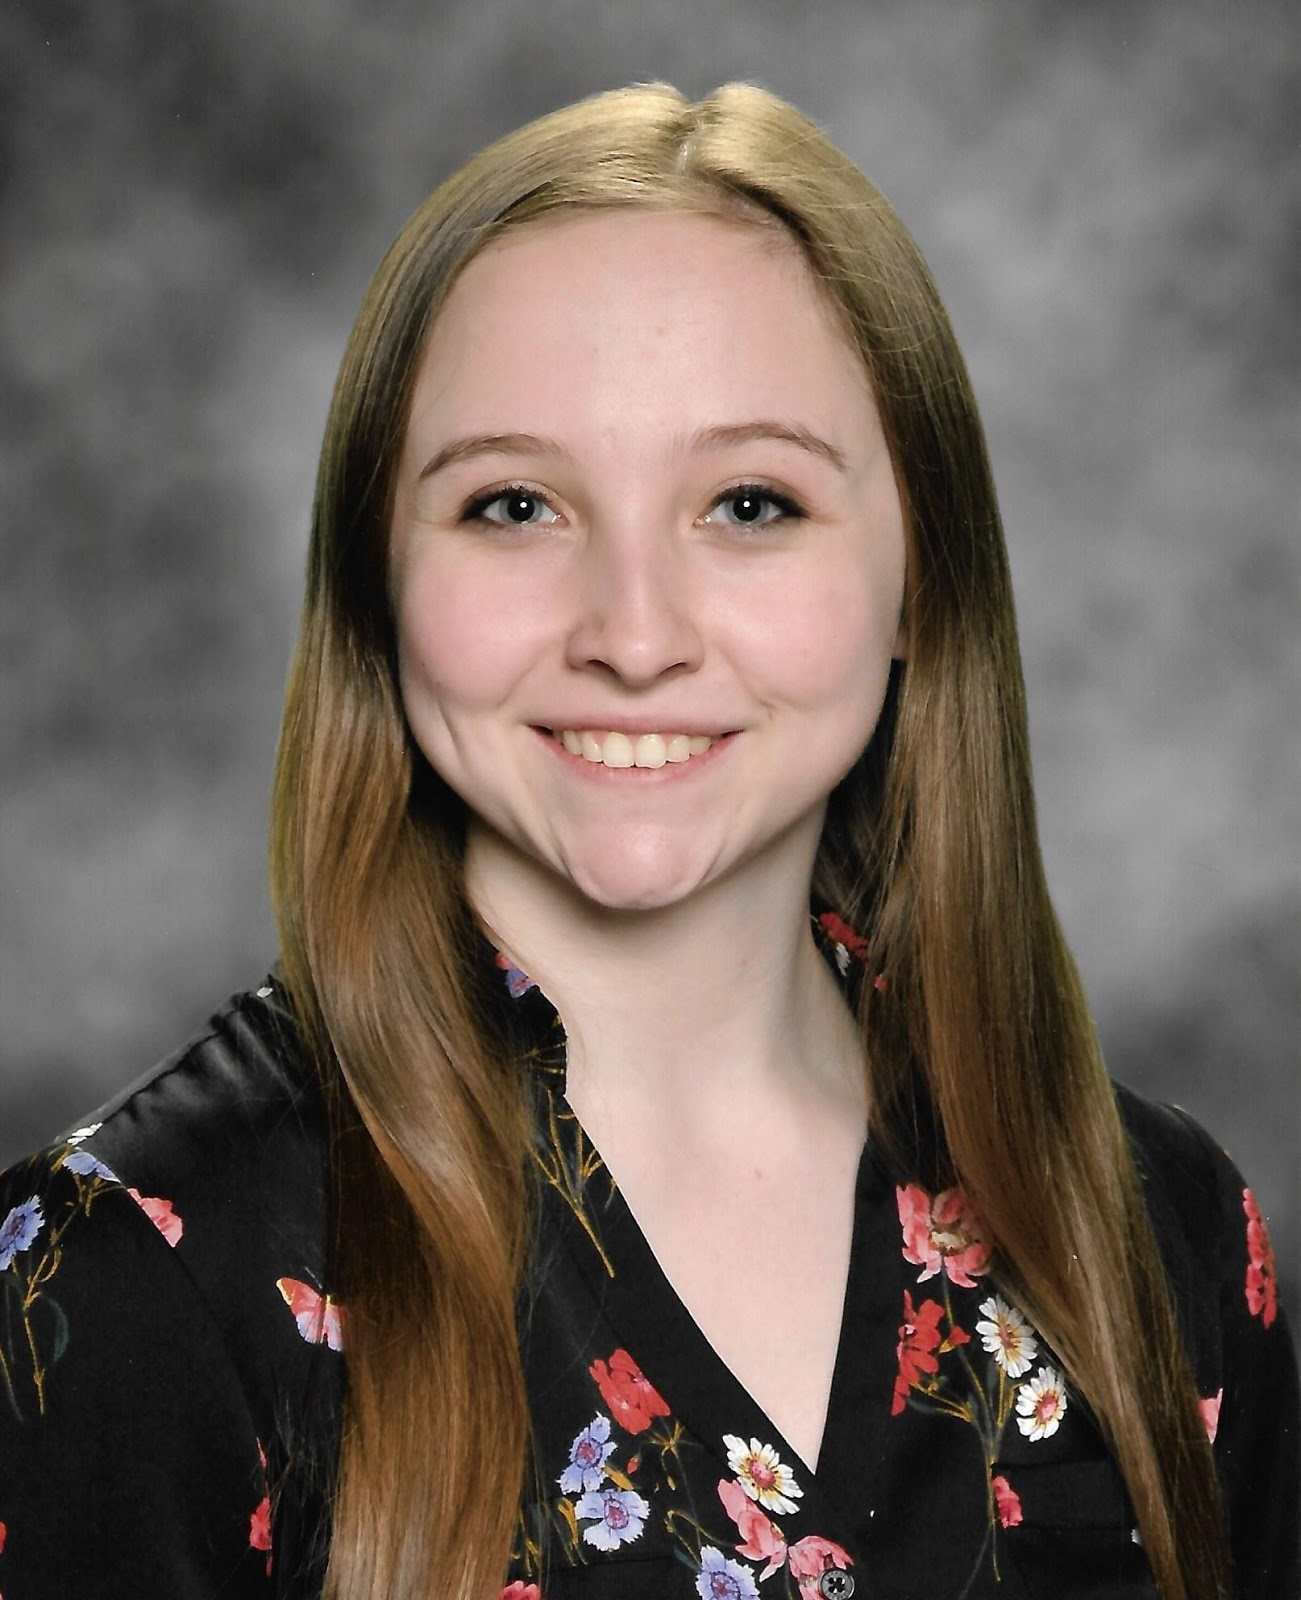
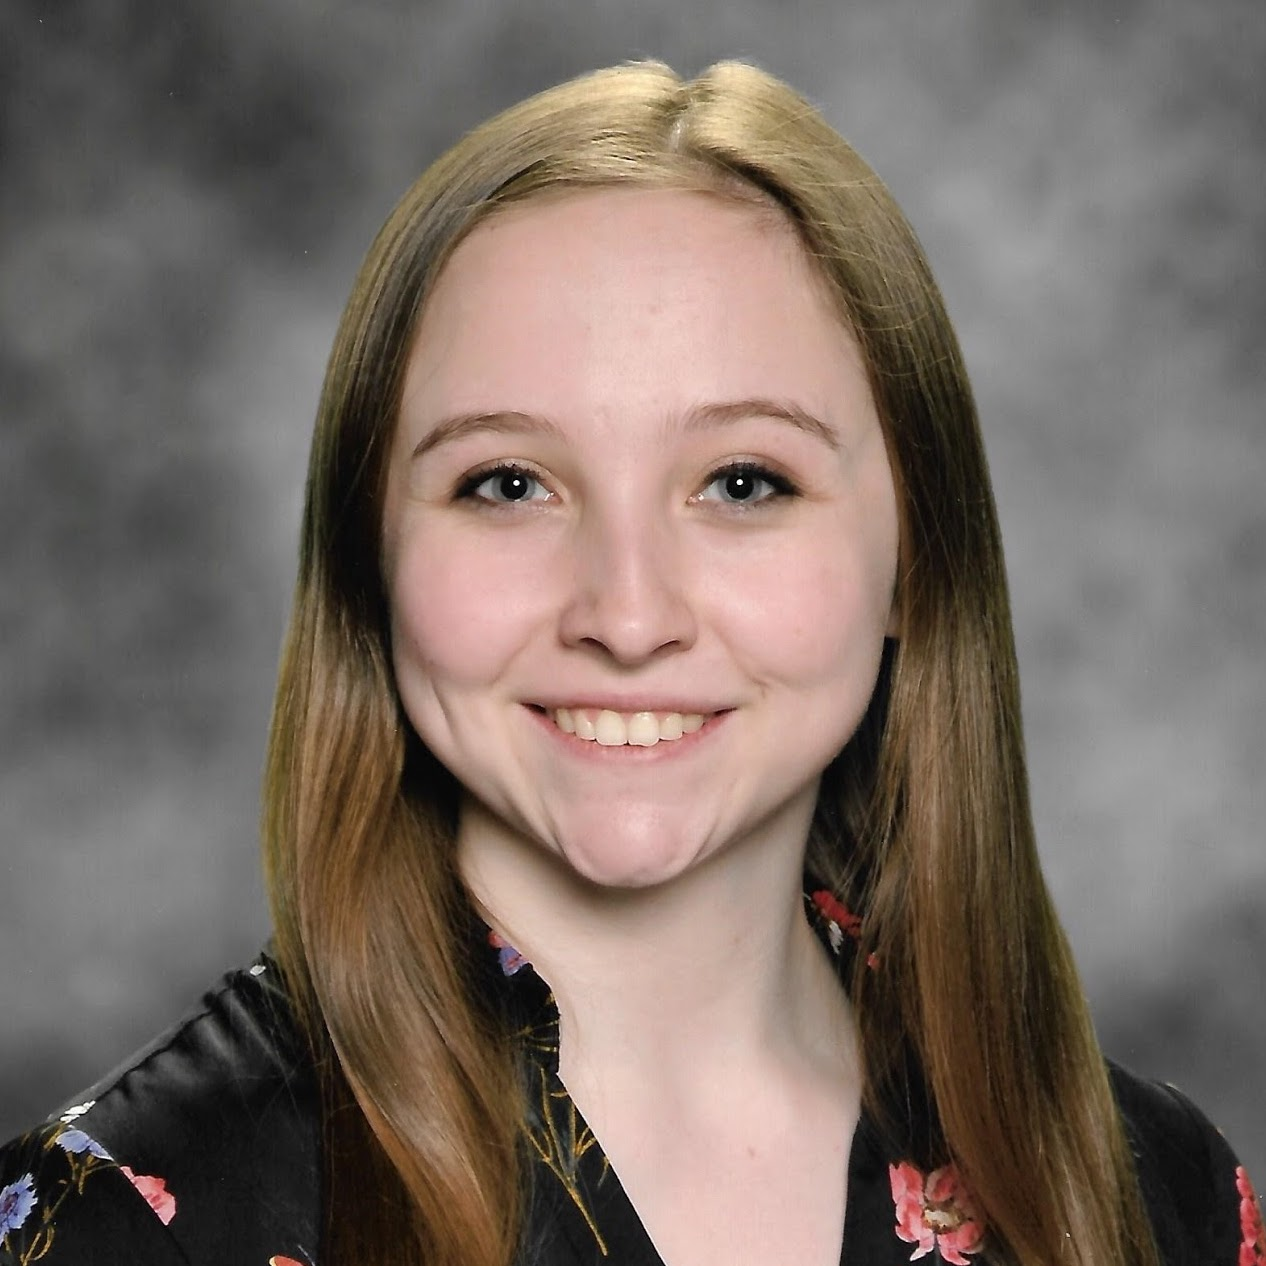
kurt pic

diff --git a/index.html b/index.html
@@ -239,14 +239,15 @@
 					</div>
 					<div class="mycard">
 						<div class="profile">
-							<img src="images/blank-profile-picture.png" alt="profile picture">
+							<img src="images/featured/kurt.png" alt="profile picture">
 						</div>
 						<div class="name">
 							Rev. Kurt Lange
 						</div>
 						<div class="feature-description">
 							<p>
-
+								Pastor <br>
+								East Coast International Church
 							</p>
 						</div>
 					</div>
